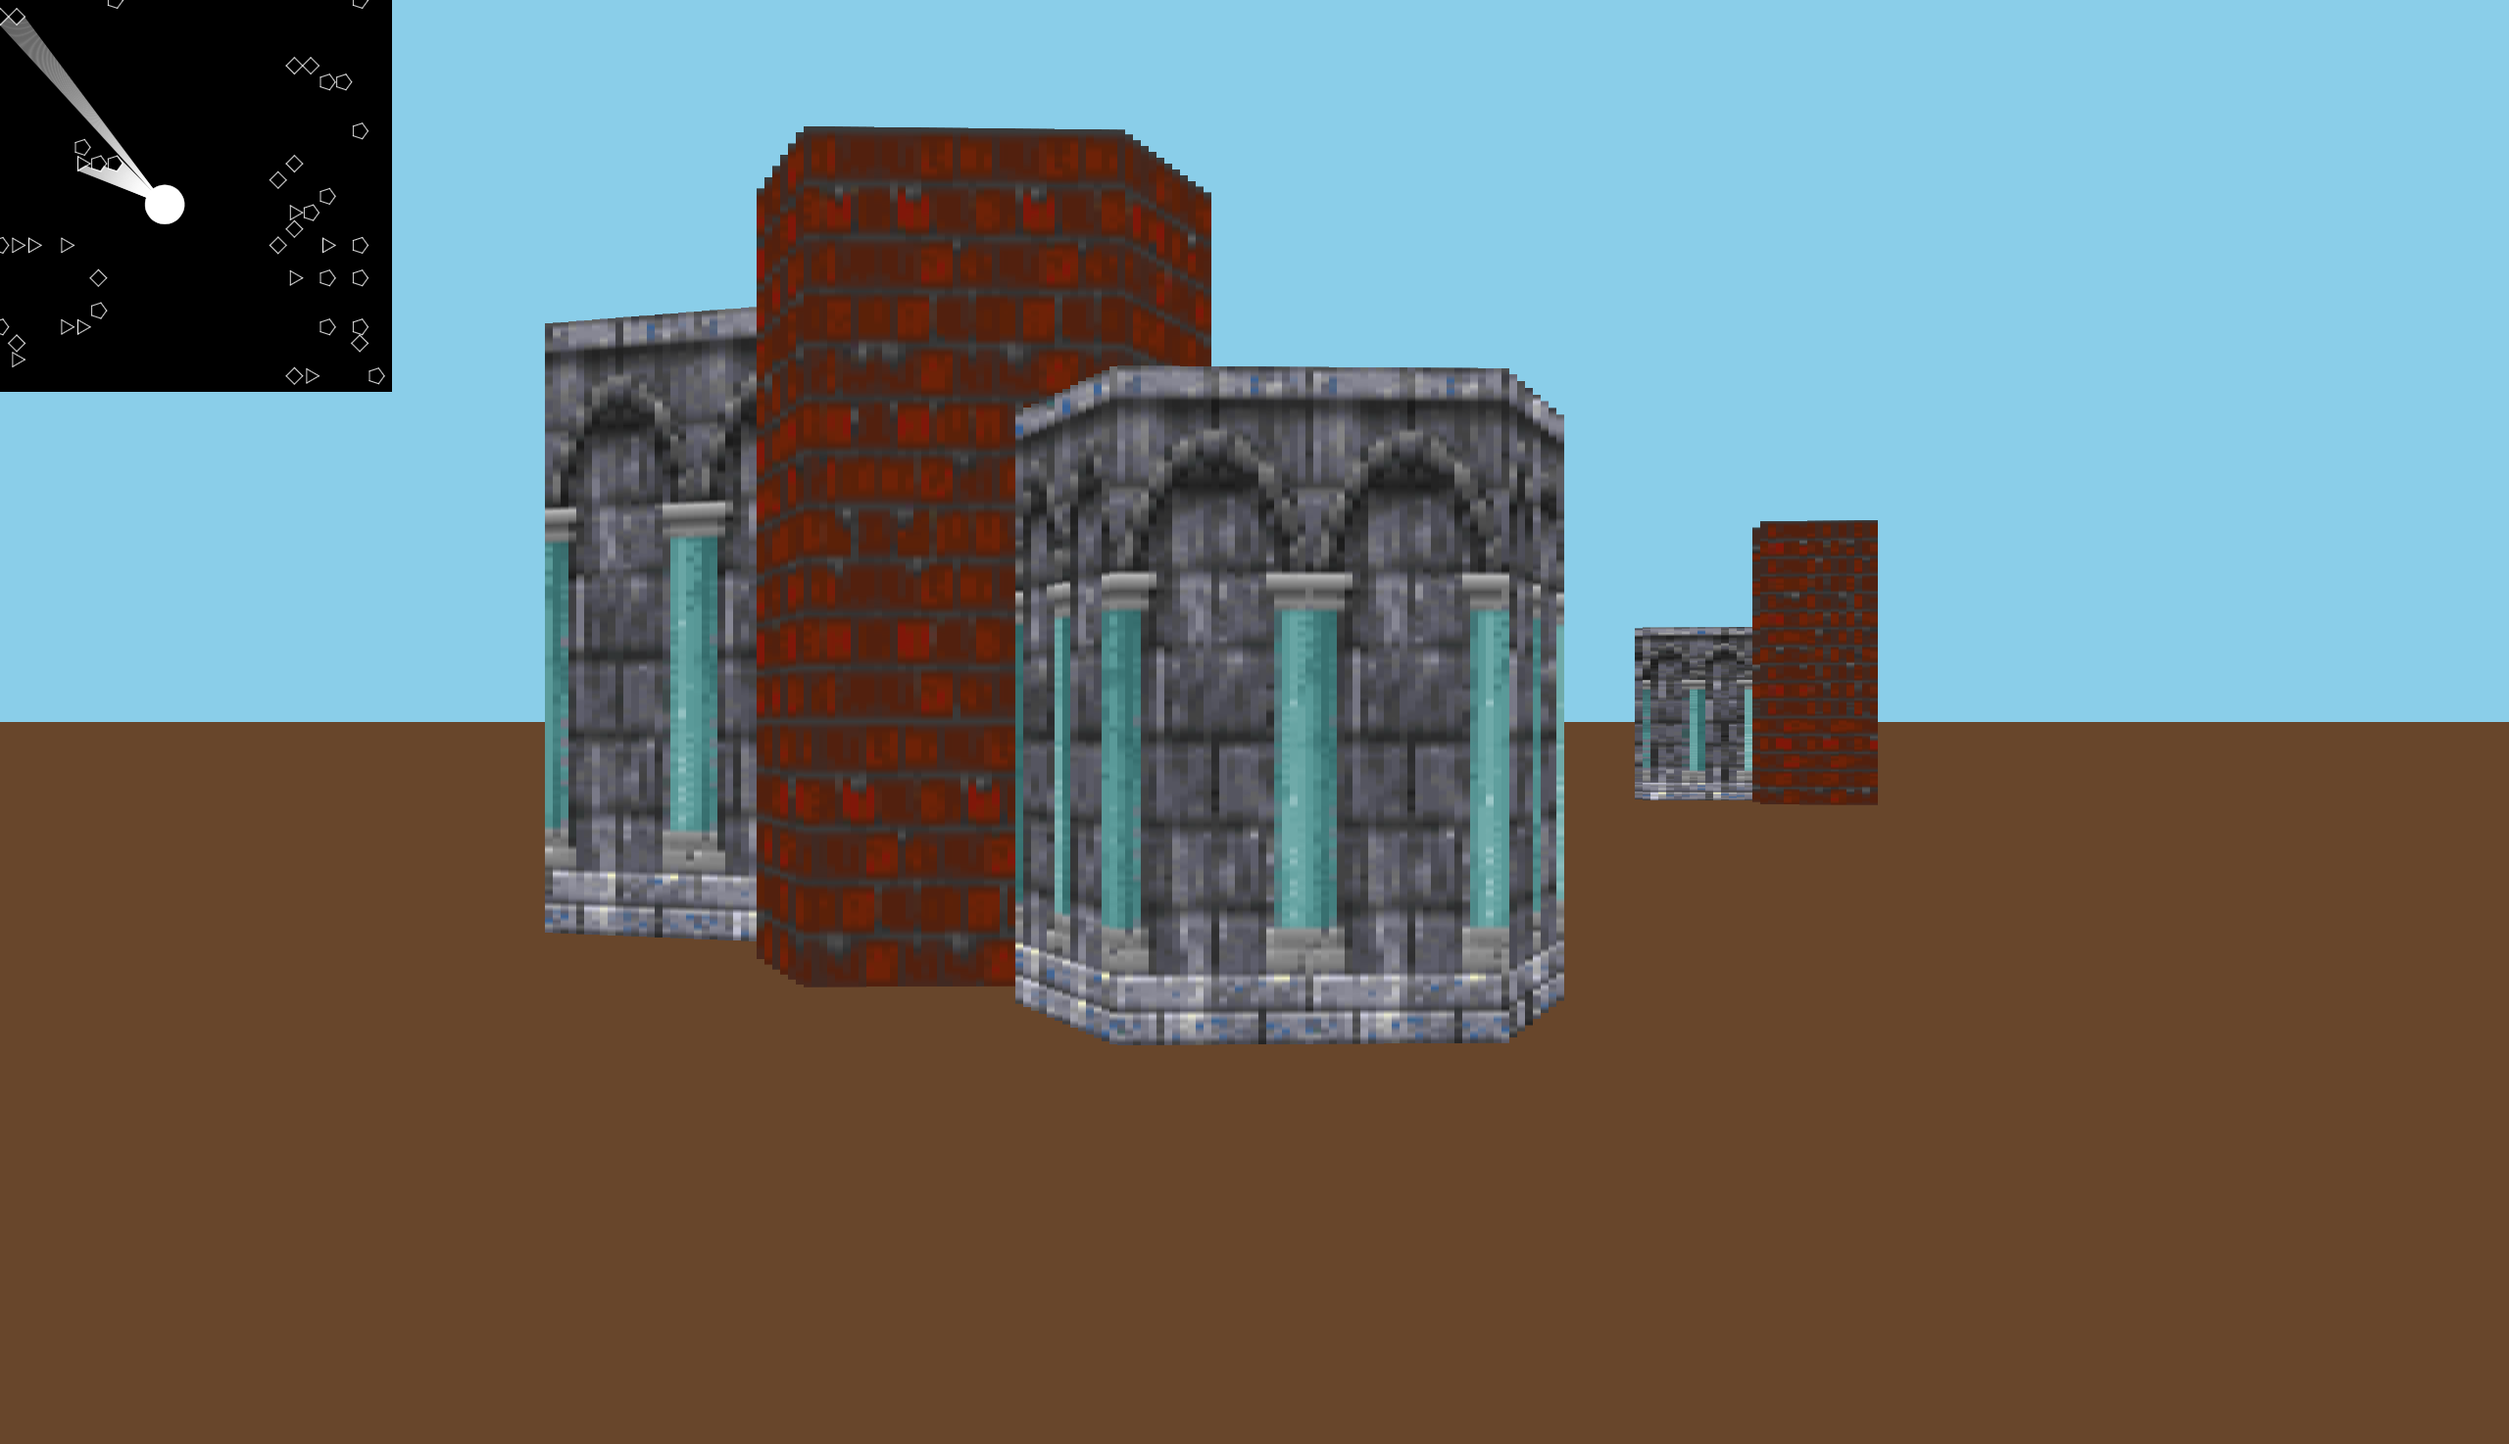
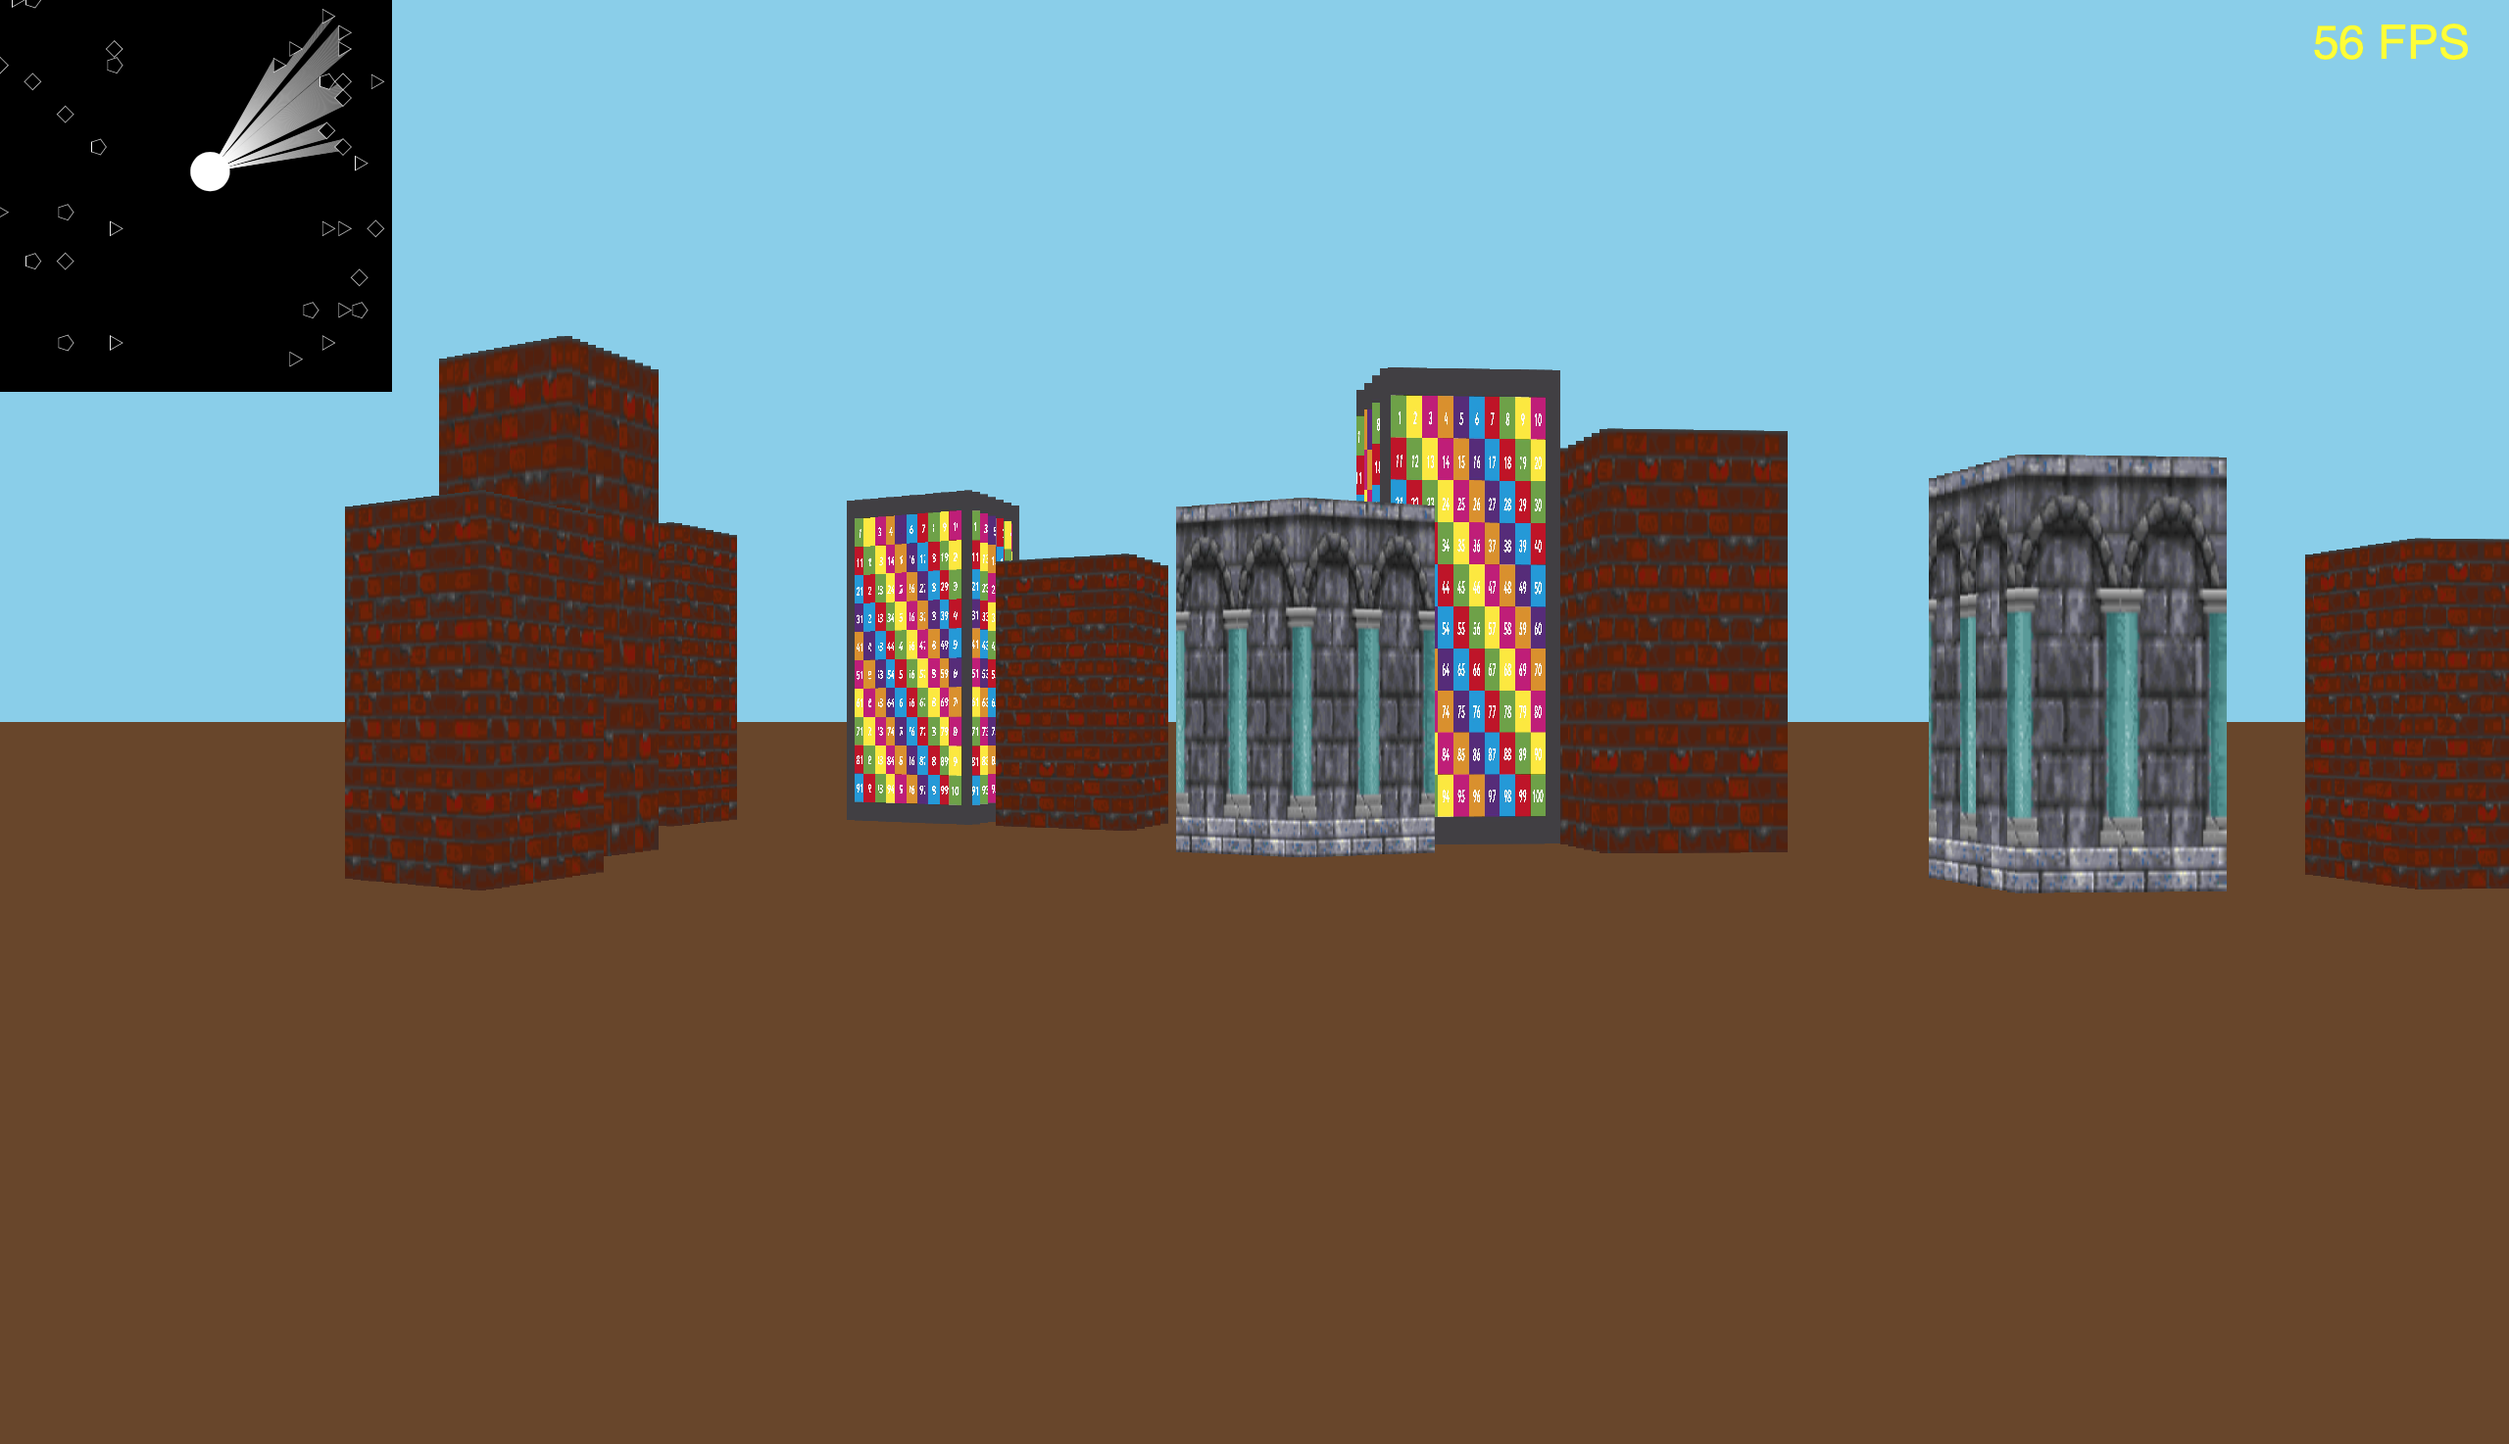
Fix texturing

diff --git a/build/build.js b/build/build.js
@@ -133,12 +133,16 @@ var GameState = (function () {
         this.collisions = [];
         this.level = new Level(width, height);
         this.actor = new Actor(this.level.width * this.level.cellSize / 2, this.level.height * this.level.cellSize / 2);
-        var textures = ['../../assets/textures/wall.bmp', '../../assets/textures/archs.bmp'].map(function (x) { return p.loadImage(x); });
+        var textures = [
+            '../../assets/textures/wall.bmp',
+            '../../assets/textures/archs.bmp',
+            '../../assets/textures/grid.jpeg'
+        ].map(function (x) { return p.loadImage(x); });
         var a = this.level.cellSize;
         for (var x = 0; x < this.level.width; x++) {
             for (var y = 0; y < this.level.height; y++) {
                 if (p.abs(x - this.level.width / 2) > p.floor(width / 6) && p.random() < 0.1) {
-                    var magic = (x + y) % 2;
+                    var magic = (x + y) % textures.length;
                     var h = a * (1 + p.random());
                     this.level.add(new RegularPolygon(x * a, y * a, p.floor(p.random() * 3) + 3, a / 2, h, textures[magic]));
                 }
@@ -273,34 +277,32 @@ var RegularPolygon = (function (_super) {
             var y1 = r * p.sin(p.TWO_PI * i / n) + y;
             var x2 = r * p.cos(p.TWO_PI * ((i + 1) % n) / n) + x;
             var y2 = r * p.sin(p.TWO_PI * ((i + 1) % n) / n) + y;
-            segments.push(new Segment(x1, y1, x2, y2, h, tex));
+            segments.push(new Segment(x2, y2, x1, y1, h, tex));
         }
         _this = _super.call(this, segments) || this;
         return _this;
     }
     return RegularPolygon;
 }(Polygon));
-var Rectangle = (function () {
+var Rectangle = (function (_super) {
+    __extends(Rectangle, _super);
     function Rectangle(x, y, a, b, h) {
-        this.position = p.createVector(x, y);
-        this.a = a;
-        this.b = b;
-        this.h = h;
-        this.texture = p.loadImage("../../assets/textures/" + (p.random() < 0.5 ? 'archs' : 'wall') + ".bmp");
-        this.segments = new Array(4);
-        this.segments[0] = new Segment(this.position.x, this.position.y, this.position.x + this.a, this.position.y, this.h, this.texture);
-        this.segments[1] = new Segment(this.position.x, this.position.y, this.position.x, this.position.y + this.b, this.h, this.texture);
-        this.segments[2] = new Segment(this.position.x + this.a, this.position.y, this.position.x + this.a, this.position.y + this.b, this.h, this.texture);
-        this.segments[3] = new Segment(this.position.x, this.position.y + this.b, this.position.x + this.a, this.position.y + this.b, this.h, this.texture);
+        var _this = this;
+        var texture = p.loadImage("../../assets/textures/" + (p.random() < 0.5 ? 'archs.bmp' : 'grid.jpeg'));
+        var segments = [
+            new Segment(x, y, x + a, y, h, texture),
+            new Segment(x + a, y, x + a, y + b, h, texture),
+            new Segment(x + a, y + b, x, y + b, h, texture),
+            new Segment(x, y + b, x, y, h, texture),
+        ];
+        _this = _super.call(this, segments) || this;
+        return _this;
     }
     Rectangle.prototype.getSegments = function () {
         return this.segments;
     };
-    Rectangle.prototype.show = function () {
-        p.image(this.texture, this.position.x, this.position.y, this.a, this.b);
-    };
     return Rectangle;
-}());
+}(Polygon));
 var Square = (function (_super) {
     __extends(Square, _super);
     function Square(x, y, a) {
@@ -374,13 +376,14 @@ var RaycastView = (function (_super) {
         p.fill(0);
         p.rect(0, 0, this.width, this.height);
         p.scale(scale);
+        p.strokeWeight(0.5);
         for (var i = this.state.level.cells.length - 1; i >= 0; --i) {
             var x = this.state.level.cells[i];
             if (x) {
                 x.show();
             }
         }
-        p.strokeWeight(0.5);
+        p.strokeWeight(0.25);
         p.stroke(255, 150);
         for (var i = 0; i < collisions.length; i++) {
             if (collisions[i].length > 0) {
@@ -408,6 +411,7 @@ var FirstPersonView = (function (_super) {
         p.rect(this.x, this.y + this.height * 0.5, this.width, this.height * 0.5);
         var w = this.width / this.state.actor.rays.length;
         var h_coeff = this.height * this.width / p.displayHeight;
+        var small_alpha = this.state.actor.fov / this.state.actor.rays.length;
         for (var i = 0; i < collisions.length; i++) {
             var cols = collisions[i].sort(function (x, y) { return (y.distance - x.distance); });
             for (var j = 0; j < cols.length; j++) {
@@ -420,11 +424,11 @@ var FirstPersonView = (function (_super) {
                 p.push();
                 p.translate(this.x, this.y);
                 var ai = p5.Vector.dist(c.segment.a, c.point);
-                var ib = p5.Vector.dist(c.segment.b, c.point);
-                var sx = ai / (ai + ib) * c.segment.texture.width;
-                var sw = c.segment.texture.width * c.segment.length * p.sqrt(0.75) / (cameraDist * this.state.actor.rays.length);
+                var ratio = c.segment.texture.width / c.segment.length;
+                var sx = ai * ratio;
+                var sw = c.distance * small_alpha * ratio;
                 p.imageMode(p.CORNER);
-                p.image(c.segment.texture, offset + 0.5 * w, baseline - h, w, h, sx, 0, sw, c.segment.texture.height);
+                p.image(c.segment.texture, offset, baseline - h, w, h, sx, 0, p.min(sw, c.segment.texture.width - sx), c.segment.texture.height);
                 p.pop();
             }
         }

diff --git a/sketch/models/shapes.ts b/sketch/models/shapes.ts
@@ -14,7 +14,7 @@ class Segment implements IShape {
         this.b = p.createVector(x2, y2);
         this.h = h;
 
-        this.texture = tex || p.loadImage('../../assets/textures/wall.bmp');        
+        this.texture = tex || p.loadImage('../../assets/textures/wall.bmp');
     }
 
     public getSegments(): Segment[] {
@@ -60,7 +60,7 @@ class Polygon implements IShape {
 class RegularPolygon extends Polygon {
     constructor(x: number, y: number, n: number, r: number, h: number, tex: p5.Image) {
         var segments: Segment[] = [];
-        
+
         for (let i = 0; i < n; i++) {
             const x1 = r * p.cos(p.TWO_PI * i / n) + x;
             const y1 = r * p.sin(p.TWO_PI * i / n) + y;
@@ -68,42 +68,27 @@ class RegularPolygon extends Polygon {
             const x2 = r * p.cos(p.TWO_PI * ((i + 1) % n) / n) + x;
             const y2 = r * p.sin(p.TWO_PI * ((i + 1) % n) / n) + y;
 
-            segments.push(new Segment(x1, y1, x2, y2, h, tex));
+            segments.push(new Segment(x2, y2, x1, y1, h, tex));
         }
 
         super(segments);
     }
 }
 
-class Rectangle implements IShape {
-    protected position: p5.Vector;
-    protected a: number;
-    protected b: number;
-    protected h: number;
-    protected texture: p5.Image;
-    protected segments: Segment[];
-
+class Rectangle extends Polygon {
     constructor(x: number, y: number, a: number, b: number, h: number) {
-        this.position = p.createVector(x, y);
-        this.a = a;
-        this.b = b;
-        this.h = h;
-
-        this.texture = p.loadImage(`../../assets/textures/${p.random() < 0.5 ? 'archs' : 'wall'}.bmp`);
-
-        this.segments = new Array(4);
-        this.segments[0] = new Segment(this.position.x, this.position.y, this.position.x + this.a, this.position.y, this.h, this.texture);
-        this.segments[1] = new Segment(this.position.x, this.position.y, this.position.x, this.position.y + this.b, this.h, this.texture);
-        this.segments[2] = new Segment(this.position.x + this.a, this.position.y, this.position.x + this.a, this.position.y + this.b, this.h, this.texture);
-        this.segments[3] = new Segment(this.position.x, this.position.y + this.b, this.position.x + this.a, this.position.y + this.b, this.h, this.texture);
+        const texture = p.loadImage(`../../assets/textures/${p.random() < 0.5 ? 'archs.bmp' : 'grid.jpeg'}`);
+        const segments = [
+            new Segment(x, y, x + a, y, h, texture),
+            new Segment(x + a, y, x + a, y + b, h, texture),
+            new Segment(x + a, y + b, x, y + b, h, texture),
+            new Segment(x, y + b, x, y, h, texture),
+        ]
+        super(segments);
     }
 
     public getSegments(): Segment[] {
         return this.segments;
-    }
-
-    public show() {
-        p.image(this.texture, this.position.x, this.position.y, this.a, this.b);
     }
 }
 

diff --git a/sketch/views/view.ts b/sketch/views/view.ts
@@ -80,7 +80,9 @@ class RaycastView extends GameView {
         p.rect(0, 0, this.width, this.height);
 
         p.scale(scale);
-
+        p.strokeWeight(0.5);
+        
+        // level polygons on a minimap
         for (let i = this.state.level.cells.length - 1; i >= 0; --i) {
             const x = this.state.level.cells[i];
             if (x) {
@@ -88,7 +90,7 @@ class RaycastView extends GameView {
             }
         }
 
-        p.strokeWeight(0.5);
+        p.strokeWeight(0.25);
         p.stroke(255, 150);
 
         for (let i = 0; i < collisions.length; i++) {
@@ -98,6 +100,7 @@ class RaycastView extends GameView {
             }
         }
 
+        // player (dot)
         p.stroke(255, 255);
         p.fill(255);
         p.ellipse(this.state.actor.pos.x, this.state.actor.pos.y, 20 / scale, 20 / scale);
@@ -120,6 +123,7 @@ class FirstPersonView extends GameView {
 
         const w = this.width / this.state.actor.rays.length;
         const h_coeff = this.height * this.width / p.displayHeight;
+        const small_alpha = this.state.actor.fov / this.state.actor.rays.length;
 
         for (let i = 0; i < collisions.length; i++) {
             const cols = collisions[i].sort((x, y) => (y.distance - x.distance));
@@ -138,13 +142,13 @@ class FirstPersonView extends GameView {
                 p.translate(this.x, this.y);
 
                 const ai = p5.Vector.dist(c.segment.a, c.point);
-                const ib = p5.Vector.dist(c.segment.b, c.point);
+                const ratio = c.segment.texture.width / c.segment.length;
 
-                const sx = ai / (ai + ib) * c.segment.texture.width;
-                const sw = c.segment.texture.width * c.segment.length * p.sqrt(0.75) / (cameraDist * this.state.actor.rays.length);
+                const sx = ai * ratio;
+                const sw = c.distance * small_alpha * ratio; // engineering approximation
 
                 p.imageMode(p.CORNER);
-                p.image(c.segment.texture, offset + 0.5 * w, baseline - h, w, h, sx, 0, sw, c.segment.texture.height);
+                p.image(c.segment.texture, offset, baseline - h, w, h, sx, 0, p.min(sw, c.segment.texture.width - sx), c.segment.texture.height);
                 p.pop();
             }
         }

diff --git a/sketch/models/models.ts b/sketch/models/models.ts
@@ -8,14 +8,19 @@ class GameState {
         this.level = new Level(width, height);
         this.actor = new Actor(this.level.width * this.level.cellSize / 2, this.level.height * this.level.cellSize / 2);
 
-        const textures = ['../../assets/textures/wall.bmp', '../../assets/textures/archs.bmp'].map(x => p.loadImage(x));
-        const a = this.level.cellSize;
+        const textures = [
+            '../../assets/textures/wall.bmp',
+            '../../assets/textures/archs.bmp',
+            '../../assets/textures/grid.jpeg'
+        ].map(x => p.loadImage(x));
         
-        // Initialize the level with a random valley of polygons
+        const a = this.level.cellSize;
+
+        // Initialize the level with random polygons
         for (let x = 0; x < this.level.width; x++) {
             for (let y = 0; y < this.level.height; y++) {
                 if (p.abs(x - this.level.width / 2) > p.floor(width / 6) && p.random() < 0.1) {
-                    const magic = (x + y) % 2;
+                    const magic = (x + y) % textures.length;
                     const h = a * (1 + p.random());
                     this.level.add(new RegularPolygon(x * a, y * a, p.floor(p.random() * 3) + 3, a / 2, h, textures[magic]));
                 }
